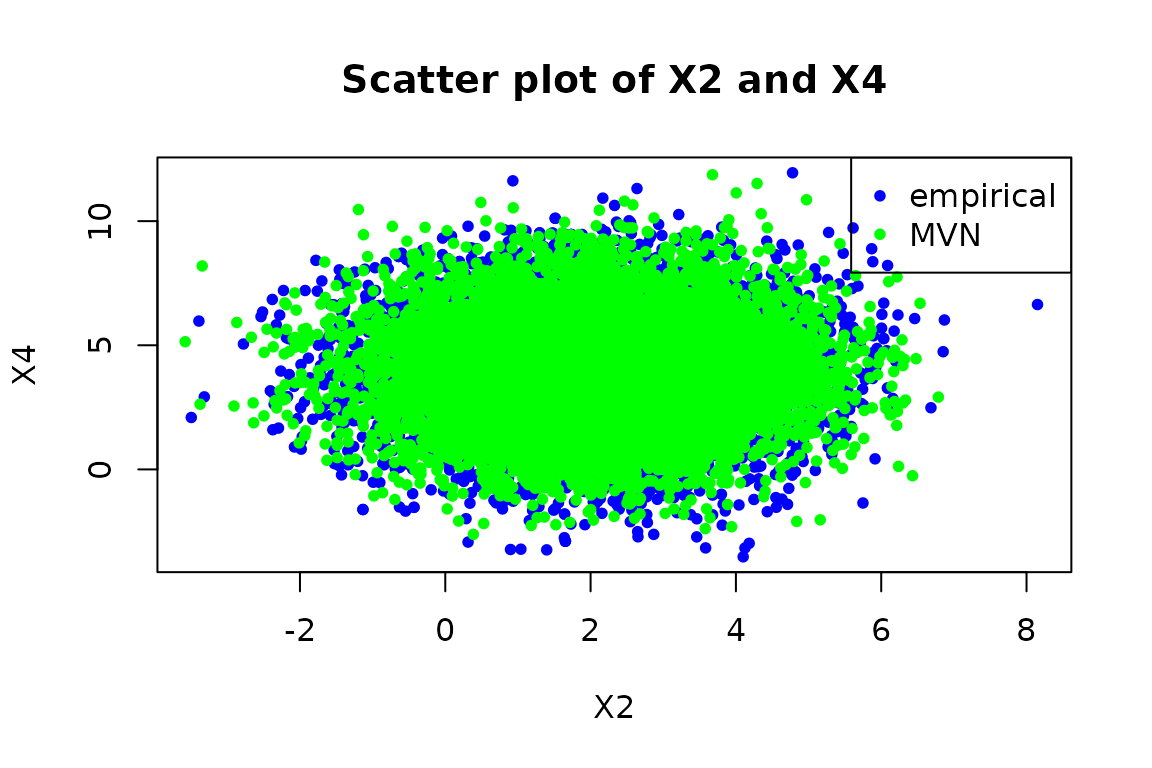
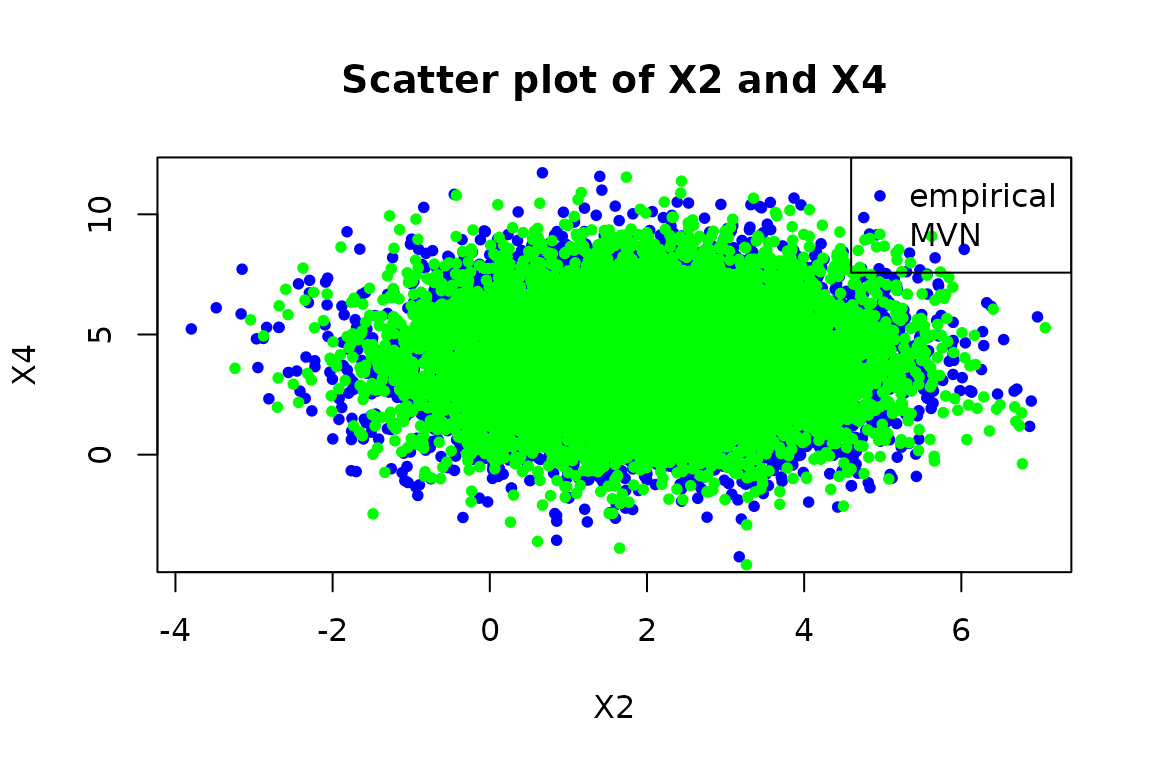
updates

diff --git a/docs/articles/example.html b/docs/articles/example.html
@@ -120,27 +120,27 @@
 <p>We have a sample of size <span class="math inline">\(n=10^{5}\)</span> from the DGP. We show some observations from this sample with:</p>
 <div class="sourceCode" id="cb4"><pre class="downlit sourceCode r">
 <code class="sourceCode R"><span><span class="fu"><a href="https://rdrr.io/r/utils/head.html" class="external-link">head</a></span><span class="op">(</span><span class="va">data</span>, n<span class="op">=</span><span class="fl">6</span><span class="op">)</span></span>
-<span><span class="co">#&gt;        [,1]   [,2] [,3]   [,4] [,5]</span></span>
-<span><span class="co">#&gt; [1,]  0.314  2.460 4.74  3.153 5.17</span></span>
-<span><span class="co">#&gt; [2,]  0.356 -0.124 1.84  3.593 5.72</span></span>
-<span><span class="co">#&gt; [3,] -0.415  0.960 3.31  2.720 3.37</span></span>
-<span><span class="co">#&gt; [4,]  0.299  1.074 2.44  2.413 8.82</span></span>
-<span><span class="co">#&gt; [5,] -0.451  0.250 4.30 -0.238 4.61</span></span>
-<span><span class="co">#&gt; [6,]  1.061  0.489 4.20  3.897 5.52</span></span></code></pre></div>
+<span><span class="co">#&gt;        [,1] [,2] [,3]   [,4] [,5]</span></span>
+<span><span class="co">#&gt; [1,]  3.584 1.68 5.00 -1.174 3.99</span></span>
+<span><span class="co">#&gt; [2,]  1.743 4.59 2.14  2.055 5.00</span></span>
+<span><span class="co">#&gt; [3,]  1.795 1.72 4.43  0.871 8.01</span></span>
+<span><span class="co">#&gt; [4,]  1.618 2.98 1.24  4.480 7.21</span></span>
+<span><span class="co">#&gt; [5,]  1.664 2.34 1.87  4.344 1.11</span></span>
+<span><span class="co">#&gt; [6,] -0.507 3.11 3.84  1.139 3.32</span></span></code></pre></div>
 <p>Now, we also construct a empirical distribution from the sample with:</p>
 <div class="sourceCode" id="cb5"><pre class="downlit sourceCode r">
 <code class="sourceCode R"><span><span class="va">emp</span> <span class="op">&lt;-</span> <span class="fu"><a href="../reference/empirical_dist.html">empirical_dist</a></span><span class="op">(</span><span class="va">data</span><span class="op">)</span></span>
 <span><span class="fu"><a href="https://rdrr.io/r/base/print.html" class="external-link">print</a></span><span class="op">(</span><span class="va">emp</span><span class="op">)</span></span>
 <span><span class="co">#&gt; Empirical Distribution </span></span>
 <span><span class="co">#&gt; Mean:</span></span>
-<span><span class="co">#&gt; [1] 1.00 1.99 3.00 4.00 5.00</span></span>
+<span><span class="co">#&gt; [1] 1.00 2.00 3.00 3.99 4.99</span></span>
 <span><span class="co">#&gt; Covariance:</span></span>
-<span><span class="co">#&gt;           [,1]     [,2]     [,3]      [,4]     [,5]</span></span>
-<span><span class="co">#&gt; [1,]  1.007719 -0.00238  0.00364  0.000178  0.00877</span></span>
-<span><span class="co">#&gt; [2,] -0.002379  1.99862 -0.00645  0.016907 -0.00942</span></span>
-<span><span class="co">#&gt; [3,]  0.003644 -0.00645  2.99783  0.009765  0.02244</span></span>
-<span><span class="co">#&gt; [4,]  0.000178  0.01691  0.00977  4.018779 -0.01714</span></span>
-<span><span class="co">#&gt; [5,]  0.008769 -0.00942  0.02244 -0.017136  5.04388</span></span>
+<span><span class="co">#&gt;          [,1]     [,2]     [,3]     [,4]     [,5]</span></span>
+<span><span class="co">#&gt; [1,]  1.00769  0.00265 -0.00550  0.00658 -0.00596</span></span>
+<span><span class="co">#&gt; [2,]  0.00265  2.00625  0.00383 -0.00768 -0.00202</span></span>
+<span><span class="co">#&gt; [3,] -0.00550  0.00383  3.00216  0.02091  0.00887</span></span>
+<span><span class="co">#&gt; [4,]  0.00658 -0.00768  0.02091  3.99605  0.01096</span></span>
+<span><span class="co">#&gt; [5,] -0.00596 -0.00202  0.00887  0.01096  4.99152</span></span>
 <span><span class="co">#&gt; Number of observations: 100000</span></span></code></pre></div>
 <p>Let’s show the supports of the empirical distribution and the MVN:</p>
 <div class="sourceCode" id="cb6"><pre class="downlit sourceCode r">
@@ -153,17 +153,17 @@
 <span><span class="fu"><a href="https://rdrr.io/r/base/row.names.html" class="external-link">row.names</a></span><span class="op">(</span><span class="va">df</span><span class="op">)</span> <span class="op">&lt;-</span> <span class="fu"><a href="https://rdrr.io/r/base/paste.html" class="external-link">paste0</a></span><span class="op">(</span><span class="st">"param"</span>,<span class="fl">1</span><span class="op">:</span><span class="fu"><a href="https://rdrr.io/r/base/dim.html" class="external-link">dim</a></span><span class="op">(</span><span class="fu"><a href="../reference/sup.html">sup</a></span><span class="op">(</span><span class="va">M</span><span class="op">)</span><span class="op">)</span><span class="op">)</span></span>
 <span><span class="fu"><a href="https://rdrr.io/r/base/print.html" class="external-link">print</a></span><span class="op">(</span><span class="va">df</span><span class="op">)</span></span>
 <span><span class="co">#&gt;        supremum.mvn supremum.emp infimum.mvn infimum.emp</span></span>
-<span><span class="co">#&gt; param1          Inf         5.04        -Inf       -3.25</span></span>
-<span><span class="co">#&gt; param2          Inf         8.15        -Inf       -3.87</span></span>
-<span><span class="co">#&gt; param3          Inf        11.50        -Inf       -4.14</span></span>
-<span><span class="co">#&gt; param4          Inf        12.52        -Inf       -5.39</span></span>
-<span><span class="co">#&gt; param5          Inf        16.00        -Inf       -4.58</span></span></code></pre></div>
+<span><span class="co">#&gt; param1          Inf         5.08        -Inf       -3.21</span></span>
+<span><span class="co">#&gt; param2          Inf         8.25        -Inf       -4.38</span></span>
+<span><span class="co">#&gt; param3          Inf        10.66        -Inf       -4.51</span></span>
+<span><span class="co">#&gt; param4          Inf        12.95        -Inf       -4.49</span></span>
+<span><span class="co">#&gt; param5          Inf        15.61        -Inf       -5.40</span></span></code></pre></div>
 <p>Let’s compare the mean and covariance-variance matrices of both the MVN and the empirical distribution of the MVN. First, let’s look at the means.</p>
 <div class="sourceCode" id="cb7"><pre class="downlit sourceCode r">
 <code class="sourceCode R"><span><span class="fu"><a href="https://rdrr.io/r/base/mean.html" class="external-link">mean</a></span><span class="op">(</span><span class="va">M</span><span class="op">)</span></span>
 <span><span class="co">#&gt; [1] 1 2 3 4 5</span></span>
 <span><span class="fu"><a href="https://rdrr.io/r/base/mean.html" class="external-link">mean</a></span><span class="op">(</span><span class="va">emp</span><span class="op">)</span></span>
-<span><span class="co">#&gt; [1] 1.00 1.99 3.00 4.00 5.00</span></span></code></pre></div>
+<span><span class="co">#&gt; [1] 1.00 2.00 3.00 3.99 4.99</span></span></code></pre></div>
 <p>As expected, pretty close. Now let’s look at the variance-covariance:</p>
 <div class="sourceCode" id="cb8"><pre class="downlit sourceCode r">
 <code class="sourceCode R"><span><span class="fu"><a href="../reference/vcov.html">vcov</a></span><span class="op">(</span><span class="va">M</span><span class="op">)</span></span>
@@ -174,12 +174,12 @@
 <span><span class="co">#&gt; [4,]    0    0    0    4    0</span></span>
 <span><span class="co">#&gt; [5,]    0    0    0    0    5</span></span>
 <span><span class="fu"><a href="../reference/vcov.html">vcov</a></span><span class="op">(</span><span class="va">emp</span><span class="op">)</span></span>
-<span><span class="co">#&gt;           [,1]     [,2]     [,3]      [,4]     [,5]</span></span>
-<span><span class="co">#&gt; [1,]  1.007719 -0.00238  0.00364  0.000178  0.00877</span></span>
-<span><span class="co">#&gt; [2,] -0.002379  1.99862 -0.00645  0.016907 -0.00942</span></span>
-<span><span class="co">#&gt; [3,]  0.003644 -0.00645  2.99783  0.009765  0.02244</span></span>
-<span><span class="co">#&gt; [4,]  0.000178  0.01691  0.00977  4.018779 -0.01714</span></span>
-<span><span class="co">#&gt; [5,]  0.008769 -0.00942  0.02244 -0.017136  5.04388</span></span></code></pre></div>
+<span><span class="co">#&gt;          [,1]     [,2]     [,3]     [,4]     [,5]</span></span>
+<span><span class="co">#&gt; [1,]  1.00769  0.00265 -0.00550  0.00658 -0.00596</span></span>
+<span><span class="co">#&gt; [2,]  0.00265  2.00625  0.00383 -0.00768 -0.00202</span></span>
+<span><span class="co">#&gt; [3,] -0.00550  0.00383  3.00216  0.02091  0.00887</span></span>
+<span><span class="co">#&gt; [4,]  0.00658 -0.00768  0.02091  3.99605  0.01096</span></span>
+<span><span class="co">#&gt; [5,] -0.00596 -0.00202  0.00887  0.01096  4.99152</span></span></code></pre></div>
 <p>The true variances of the population defined by the MVN <span class="math inline">\(M\)</span> is the diagonal of the variance-covariance matrix:</p>
 <div class="sourceCode" id="cb9"><pre class="downlit sourceCode r">
 <code class="sourceCode R"><span><span class="fu"><a href="https://rdrr.io/r/base/diag.html" class="external-link">diag</a></span><span class="op">(</span><span class="fu"><a href="../reference/vcov.html">vcov</a></span><span class="op">(</span><span class="va">M</span><span class="op">)</span><span class="op">)</span></span>
@@ -188,36 +188,36 @@
 <div class="sourceCode" id="cb10"><pre class="downlit sourceCode r">
 <code class="sourceCode R"><span><span class="va">mu.emp</span> <span class="op">&lt;-</span> <span class="fu"><a href="https://rdrr.io/r/base/mean.html" class="external-link">mean</a></span><span class="op">(</span><span class="va">emp</span><span class="op">)</span></span>
 <span><span class="fu"><a href="../reference/expectation.html">expectation</a></span><span class="op">(</span><span class="va">emp</span>, <span class="kw">function</span><span class="op">(</span><span class="va">x</span><span class="op">)</span> <span class="op">(</span><span class="va">x</span> <span class="op">-</span> <span class="va">mu.emp</span><span class="op">)</span><span class="op">^</span><span class="fl">2</span><span class="op">)</span></span>
-<span><span class="co">#&gt; [1] 1.01 2.00 3.00 4.02 5.04</span></span>
+<span><span class="co">#&gt; [1] 1.01 2.01 3.00 4.00 4.99</span></span>
 <span><span class="fu"><a href="../reference/expectation.html">expectation</a></span><span class="op">(</span><span class="va">M</span>, <span class="kw">function</span><span class="op">(</span><span class="va">x</span><span class="op">)</span> <span class="op">(</span><span class="va">x</span> <span class="op">-</span> <span class="fu"><a href="https://rdrr.io/r/base/mean.html" class="external-link">mean</a></span><span class="op">(</span><span class="va">M</span><span class="op">)</span><span class="op">)</span><span class="op">^</span><span class="fl">2</span>, control <span class="op">=</span> <span class="fu"><a href="https://rdrr.io/r/base/list.html" class="external-link">list</a></span><span class="op">(</span>n <span class="op">=</span> <span class="va">n</span><span class="op">)</span><span class="op">)</span></span>
-<span><span class="co">#&gt; [1] 0.997 2.003 3.013 3.972 5.002</span></span></code></pre></div>
+<span><span class="co">#&gt; [1] 1.00 2.00 3.00 3.99 4.97</span></span></code></pre></div>
 <p>We see that these are pretty good estimates, as the expectation is actually a Monte Carlo approximation. We can see the CI’s with:</p>
 <div class="sourceCode" id="cb11"><pre class="downlit sourceCode r">
 <code class="sourceCode R"><span><span class="fu"><a href="../reference/expectation.html">expectation</a></span><span class="op">(</span><span class="va">emp</span>, <span class="kw">function</span><span class="op">(</span><span class="va">x</span><span class="op">)</span> <span class="op">(</span><span class="va">x</span> <span class="op">-</span> <span class="va">mu.emp</span><span class="op">)</span><span class="op">^</span><span class="fl">2</span>, control <span class="op">=</span> <span class="fu"><a href="https://rdrr.io/r/base/list.html" class="external-link">list</a></span><span class="op">(</span>compute_stats <span class="op">=</span> <span class="cn">TRUE</span><span class="op">)</span><span class="op">)</span></span>
 <span><span class="co">#&gt; $value</span></span>
-<span><span class="co">#&gt; [1] 1.01 2.00 3.00 4.02 5.04</span></span>
+<span><span class="co">#&gt; [1] 1.01 2.01 3.00 4.00 4.99</span></span>
 <span><span class="co">#&gt; </span></span>
 <span><span class="co">#&gt; $ci</span></span>
 <span><span class="co">#&gt;       [,1] [,2]</span></span>
 <span><span class="co">#&gt; [1,] 0.999 1.02</span></span>
-<span><span class="co">#&gt; [2,] 1.981 2.02</span></span>
-<span><span class="co">#&gt; [3,] 2.972 3.02</span></span>
-<span><span class="co">#&gt; [4,] 3.983 4.05</span></span>
-<span><span class="co">#&gt; [5,] 5.000 5.09</span></span>
+<span><span class="co">#&gt; [2,] 1.989 2.02</span></span>
+<span><span class="co">#&gt; [3,] 2.976 3.03</span></span>
+<span><span class="co">#&gt; [4,] 3.961 4.03</span></span>
+<span><span class="co">#&gt; [5,] 4.948 5.04</span></span>
 <span><span class="co">#&gt; </span></span>
 <span><span class="co">#&gt; $n</span></span>
 <span><span class="co">#&gt; [1] 100000</span></span>
 <span><span class="fu"><a href="../reference/expectation.html">expectation</a></span><span class="op">(</span><span class="va">M</span>, <span class="kw">function</span><span class="op">(</span><span class="va">x</span><span class="op">)</span> <span class="op">(</span><span class="va">x</span> <span class="op">-</span> <span class="fu"><a href="https://rdrr.io/r/base/mean.html" class="external-link">mean</a></span><span class="op">(</span><span class="va">M</span><span class="op">)</span><span class="op">)</span><span class="op">^</span><span class="fl">2</span>, control <span class="op">=</span> <span class="fu"><a href="https://rdrr.io/r/base/list.html" class="external-link">list</a></span><span class="op">(</span>n <span class="op">=</span> <span class="va">n</span>, compute_stats <span class="op">=</span> <span class="cn">TRUE</span><span class="op">)</span><span class="op">)</span></span>
 <span><span class="co">#&gt; $value</span></span>
-<span><span class="co">#&gt; [1] 1.00 2.00 3.00 4.00 4.98</span></span>
+<span><span class="co">#&gt; [1] 0.999 2.008 2.992 4.017 5.059</span></span>
 <span><span class="co">#&gt; </span></span>
 <span><span class="co">#&gt; $ci</span></span>
-<span><span class="co">#&gt;       [,1] [,2]</span></span>
-<span><span class="co">#&gt; [1,] 0.993 1.01</span></span>
-<span><span class="co">#&gt; [2,] 1.985 2.02</span></span>
-<span><span class="co">#&gt; [3,] 2.977 3.03</span></span>
-<span><span class="co">#&gt; [4,] 3.968 4.04</span></span>
-<span><span class="co">#&gt; [5,] 4.941 5.03</span></span>
+<span><span class="co">#&gt;      [,1] [,2]</span></span>
+<span><span class="co">#&gt; [1,] 0.99 1.01</span></span>
+<span><span class="co">#&gt; [2,] 1.99 2.03</span></span>
+<span><span class="co">#&gt; [3,] 2.97 3.02</span></span>
+<span><span class="co">#&gt; [4,] 3.98 4.05</span></span>
+<span><span class="co">#&gt; [5,] 5.01 5.10</span></span>
 <span><span class="co">#&gt; </span></span>
 <span><span class="co">#&gt; $n</span></span>
 <span><span class="co">#&gt; [1] 100000</span></span></code></pre></div>
@@ -225,9 +225,9 @@
 <div class="sourceCode" id="cb12"><pre class="downlit sourceCode r">
 <code class="sourceCode R"><span><span class="va">mu.emp</span> <span class="op">&lt;-</span> <span class="fu"><a href="https://rdrr.io/r/base/mean.html" class="external-link">mean</a></span><span class="op">(</span><span class="va">emp</span><span class="op">)</span></span>
 <span><span class="fu"><a href="https://rdrr.io/r/base/mean.html" class="external-link">mean</a></span><span class="op">(</span><span class="fu"><a href="../reference/rmap.html">rmap</a></span><span class="op">(</span><span class="va">emp</span>, <span class="kw">function</span><span class="op">(</span><span class="va">x</span><span class="op">)</span> <span class="op">(</span><span class="va">x</span> <span class="op">-</span> <span class="va">mu.emp</span><span class="op">)</span><span class="op">^</span><span class="fl">2</span><span class="op">)</span><span class="op">)</span></span>
-<span><span class="co">#&gt; [1] 1.01 2.00 3.00 4.02 5.04</span></span>
+<span><span class="co">#&gt; [1] 1.01 2.01 3.00 4.00 4.99</span></span>
 <span><span class="fu"><a href="https://rdrr.io/r/base/mean.html" class="external-link">mean</a></span><span class="op">(</span><span class="fu"><a href="../reference/rmap.html">rmap</a></span><span class="op">(</span><span class="va">M</span>, <span class="kw">function</span><span class="op">(</span><span class="va">x</span><span class="op">)</span> <span class="op">(</span><span class="va">x</span> <span class="op">-</span> <span class="fu"><a href="https://rdrr.io/r/base/mean.html" class="external-link">mean</a></span><span class="op">(</span><span class="va">M</span><span class="op">)</span><span class="op">)</span><span class="op">^</span><span class="fl">2</span>, n <span class="op">=</span> <span class="va">n</span><span class="op">)</span><span class="op">)</span></span>
-<span><span class="co">#&gt; [1] 1.01 2.01 3.01 4.00 4.95</span></span></code></pre></div>
+<span><span class="co">#&gt; [1] 0.991 1.996 2.978 3.993 4.987</span></span></code></pre></div>
 <p>These are both reasonable estimates of the variance.</p>
 <p>The PDF of the empirical is not very useful – it gets <span class="math inline">\(1/n\)</span> for each observation:</p>
 <div class="sourceCode" id="cb13"><pre class="downlit sourceCode r">
@@ -238,8 +238,8 @@
 <span>  pdf.emp <span class="op">=</span> <span class="fu"><a href="https://rdrr.io/r/base/c.html" class="external-link">c</a></span><span class="op">(</span><span class="fu"><a href="../reference/pdf.html">pdf</a></span><span class="op">(</span><span class="va">emp</span><span class="op">)</span><span class="op">(</span><span class="va">x</span><span class="op">)</span>, <span class="fu"><a href="../reference/pdf.html">pdf</a></span><span class="op">(</span><span class="va">emp</span><span class="op">)</span><span class="op">(</span><span class="va">y</span><span class="op">)</span><span class="op">)</span>,</span>
 <span>  pdf.mvn <span class="op">=</span> <span class="fu"><a href="https://rdrr.io/r/base/c.html" class="external-link">c</a></span><span class="op">(</span><span class="fu"><a href="../reference/pdf.html">pdf</a></span><span class="op">(</span><span class="va">M</span><span class="op">)</span><span class="op">(</span><span class="va">x</span><span class="op">)</span>, <span class="fu"><a href="../reference/pdf.html">pdf</a></span><span class="op">(</span><span class="va">M</span><span class="op">)</span><span class="op">(</span><span class="va">y</span><span class="op">)</span><span class="op">)</span><span class="op">)</span></span>
 <span><span class="co">#&gt;             ob pdf.emp  pdf.mvn</span></span>
-<span><span class="co">#&gt; 1 empirical(x)   1e-05 0.000409</span></span>
-<span><span class="co">#&gt; 2       MVN(y)   0e+00 0.000426</span></span></code></pre></div>
+<span><span class="co">#&gt; 1 empirical(x)   1e-05 2.94e-04</span></span>
+<span><span class="co">#&gt; 2       MVN(y)   0e+00 2.90e-07</span></span></code></pre></div>
 <p>Let’s plot the CDF of marginal distribution of <span class="math inline">\(X_1\)</span>:</p>
 <div class="sourceCode" id="cb14"><pre class="downlit sourceCode r">
 <code class="sourceCode R"><span><span class="va">X1.emp</span> <span class="op">&lt;-</span> <span class="fu"><a href="../reference/marginal.html">marginal</a></span><span class="op">(</span><span class="va">emp</span>, <span class="fl">1</span><span class="op">)</span></span>
@@ -285,9 +285,9 @@
 <p>Now we show the mean of the conditional distribution, <span class="math inline">\(X | X_1 + X_2 &lt; 0\)</span>:</p>
 <div class="sourceCode" id="cb19"><pre class="downlit sourceCode r">
 <code class="sourceCode R"><span><span class="fu"><a href="https://rdrr.io/r/base/mean.html" class="external-link">mean</a></span><span class="op">(</span><span class="fu"><a href="../reference/conditional.html">conditional</a></span><span class="op">(</span><span class="va">emp</span>, <span class="kw">function</span><span class="op">(</span><span class="va">x</span><span class="op">)</span> <span class="va">x</span><span class="op">[</span><span class="fl">1</span><span class="op">]</span> <span class="op">+</span> <span class="va">x</span><span class="op">[</span><span class="fl">2</span><span class="op">]</span> <span class="op">&lt;</span> <span class="fl">0</span><span class="op">)</span><span class="op">)</span></span>
-<span><span class="co">#&gt; [1] -0.237 -0.458  3.010  4.002  5.003</span></span>
+<span><span class="co">#&gt; [1] -0.228 -0.465  2.977  3.976  5.012</span></span>
 <span><span class="fu"><a href="https://rdrr.io/r/base/mean.html" class="external-link">mean</a></span><span class="op">(</span><span class="fu"><a href="../reference/conditional.html">conditional</a></span><span class="op">(</span><span class="va">M</span>, <span class="kw">function</span><span class="op">(</span><span class="va">x</span><span class="op">)</span> <span class="va">x</span><span class="op">[</span><span class="fl">1</span><span class="op">]</span> <span class="op">+</span> <span class="va">x</span><span class="op">[</span><span class="fl">2</span><span class="op">]</span> <span class="op">&lt;</span> <span class="fl">0</span><span class="op">)</span><span class="op">)</span></span>
-<span><span class="co">#&gt; [1] -0.248 -0.507  3.032  3.992  5.231</span></span></code></pre></div>
+<span><span class="co">#&gt; [1] -0.195 -0.494  2.933  4.035  4.885</span></span></code></pre></div>
 <p>I didn’t do the analysis of what this distribution’s mean should theoretically be, if it’s even practical to derive, but it doesn’t look unreasonble. We see that the mean of the first two components are negative, which makes sense: the sum of the first two components is negative, so the mean of the first two components should be negative.</p>
 </div>
   </div>

diff --git a/docs/index.html b/docs/index.html
@@ -93,7 +93,7 @@
 <div class="sourceCode" id="cb1"><pre class="downlit sourceCode r">
 <code class="sourceCode R"><span><span class="co"># install.packages("devtools")</span></span>
 <span><span class="fu">devtools</span><span class="fu">::</span><span class="fu"><a href="https://remotes.r-lib.org/reference/install_github.html" class="external-link">install_github</a></span><span class="op">(</span><span class="st">"queelius/algebraic.dist"</span><span class="op">)</span></span></code></pre></div>
-<p>See the vignette <a href="http://queelius.github.io/algebraic.dist/docs/articles/example.html" class="external-link">algebraic.dist: Example</a> for a quick introduction to the package.</p>
+<p>See the vignette <a href="http://queelius.github.io/algebraic.dist/articles/example.html" class="external-link">algebraic.dist: Example</a> for a quick introduction to the package.</p>
 </div>
 <div class="section level2">
 <h2 id="todo">TODO<a class="anchor" aria-label="anchor" href="#todo"></a>

diff --git a/README.md b/README.md
@@ -24,7 +24,7 @@ devtools::install_github("queelius/algebraic.dist")
 ```
 
 See the vignette [algebraic.dist:
-Example](http://queelius.github.io/algebraic.dist/docs/articles/example.html)
+Example](http://queelius.github.io/algebraic.dist/articles/example.html)
 for a quick introduction to the package.
 
 ## TODO
